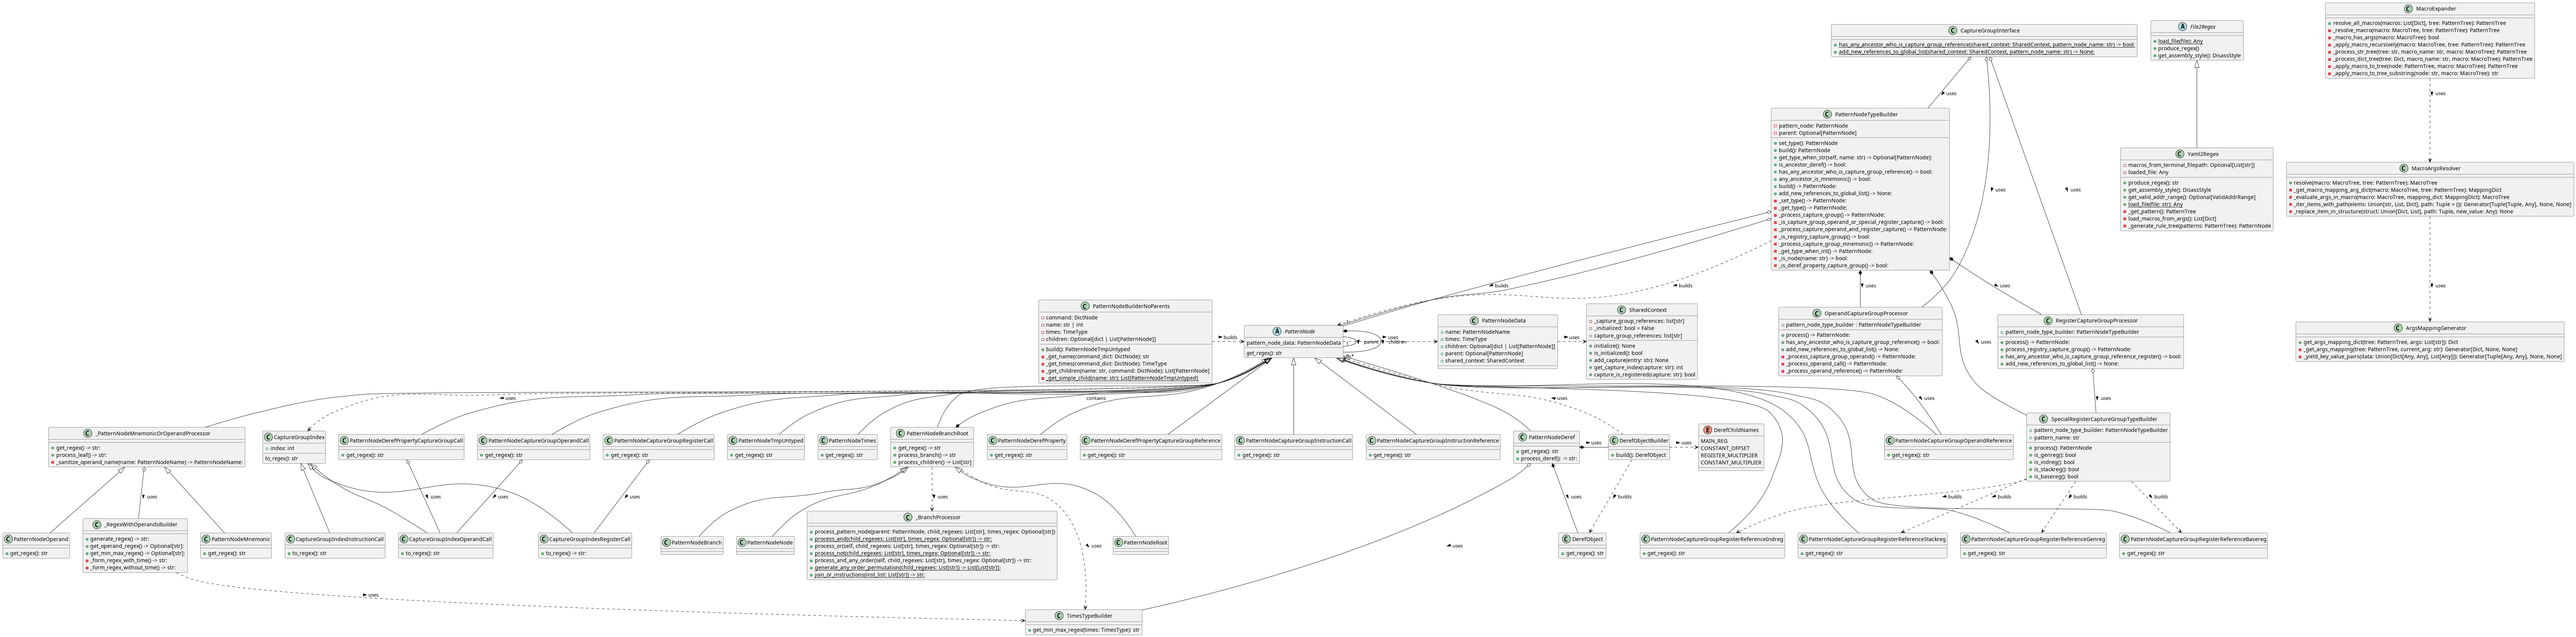
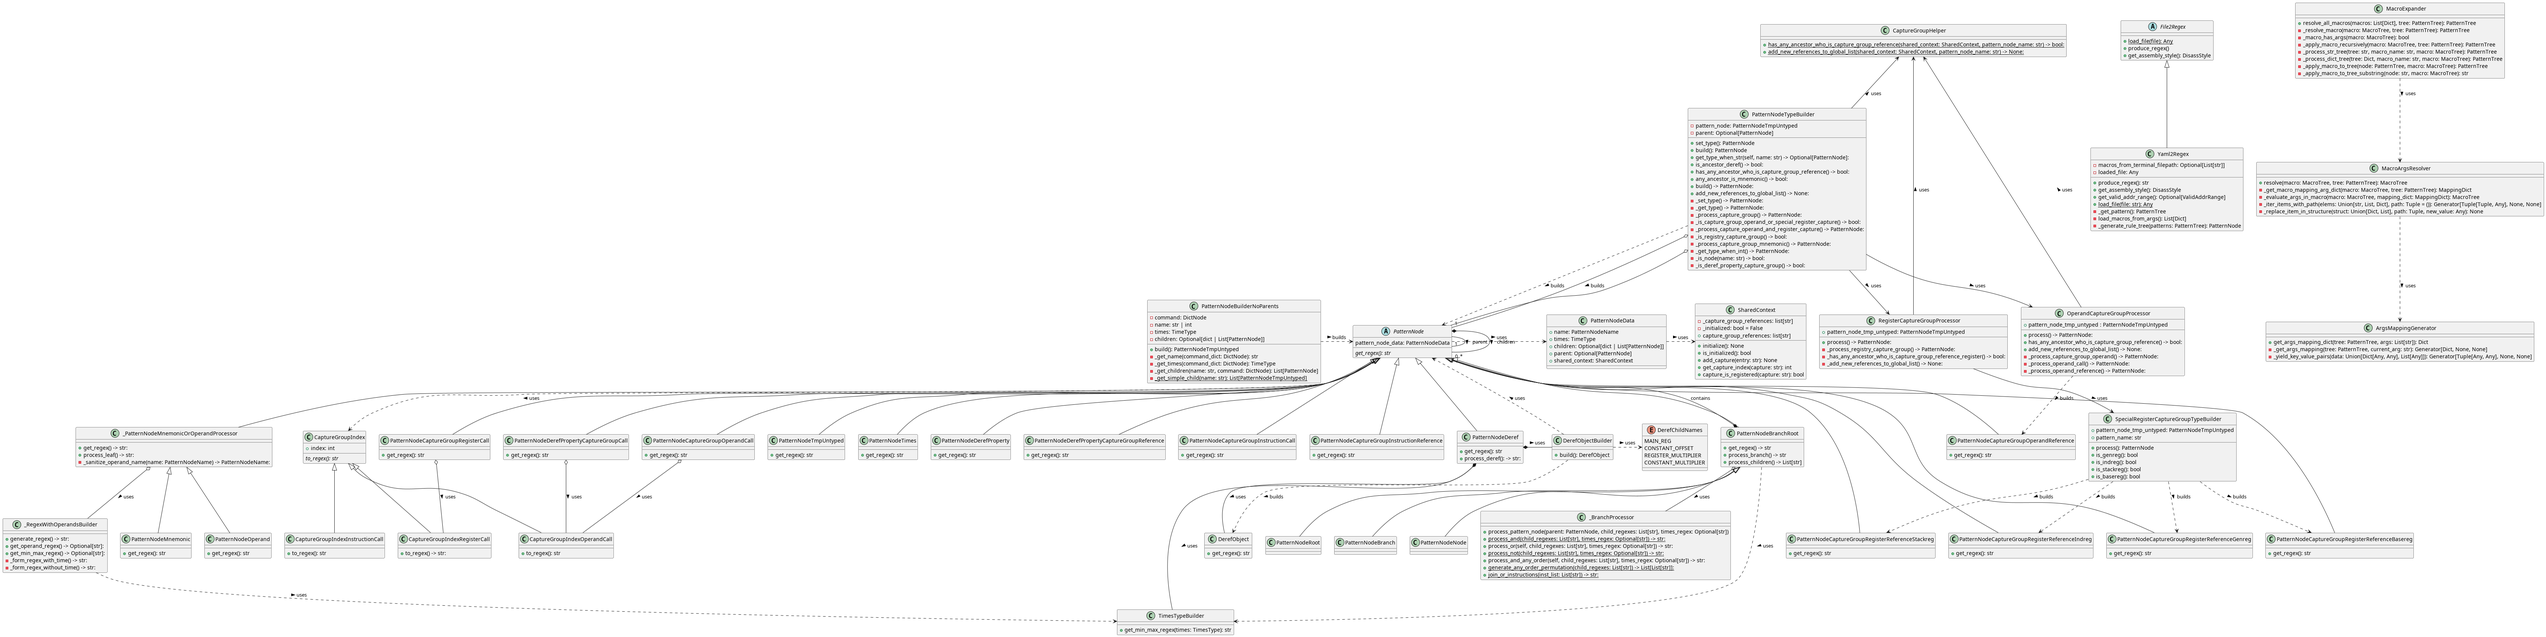
Improve design, improve get_regex and change instances of pattern_node_type_builder

diff --git a/src/jasm/regex/tree_generators/pattern_node_type_builder/register_capture_group_processor.py b/src/jasm/regex/tree_generators/pattern_node_type_builder/register_capture_group_processor.py
@@ -1,57 +1,50 @@
-from typing import TYPE_CHECKING
-
 from jasm.global_definitions import remove_access_suffix
 from jasm.regex.tree_generators.pattern_node_abstract import PatternNode
 from jasm.regex.tree_generators.pattern_node_implementations.capture_group.capture_group_register import (
     PatternNodeCaptureGroupRegisterCall,
 )
-from jasm.regex.tree_generators.pattern_node_type_builder.capture_group_interface import CaptureGroupInterface
+from jasm.regex.tree_generators.pattern_node_tmp_untyped import PatternNodeTmpUntyped
+from jasm.regex.tree_generators.pattern_node_type_builder.capture_group_interface import CaptureGroupHelper
 from jasm.regex.tree_generators.pattern_node_type_builder.special_register_capture_group_type_decider import (
     SpecialRegisterCaptureGroupTypeBuilder,
 )
 
-# Used this to import PatternNodeTypeBuilder type hint avoiding circular import
-if TYPE_CHECKING:
-    from jasm.regex.tree_generators.pattern_node_type_builder.pattern_node_type_builder import PatternNodeTypeBuilder
-
 
 class RegisterCaptureGroupProcessor:
 
-    def __init__(self, pattern_node_type_builder: "PatternNodeTypeBuilder") -> None:
-        self.pattern_node_type_builder = pattern_node_type_builder
+    def __init__(self, pattern_node_tmp_untyped: PatternNodeTmpUntyped) -> None:
+        self.pattern_node_tmp_untyped = pattern_node_tmp_untyped
 
     def process(self) -> PatternNode:
         return self.process_registry_capture_group()
 
     def process_registry_capture_group(self) -> PatternNode:
         if self.has_any_ancestor_who_is_capture_group_reference_register():
-            return PatternNodeCaptureGroupRegisterCall(self.pattern_node_type_builder.pattern_node)
+            return PatternNodeCaptureGroupRegisterCall(self.pattern_node_tmp_untyped)
 
         self.add_new_references_to_global_list()
 
         # Decide which type of register capture group it is
-        return SpecialRegisterCaptureGroupTypeBuilder(pattern_node=self.pattern_node_type_builder).process()
+        return SpecialRegisterCaptureGroupTypeBuilder(pattern_node_untyped=self.pattern_node_tmp_untyped).process()
 
     def has_any_ancestor_who_is_capture_group_reference_register(self) -> bool:
         "Check if any ancestor is a capture group reference"
 
-        assert isinstance(self.pattern_node_type_builder.pattern_node.name, str)
-        main_reference_name = remove_access_suffix(pattern_name=self.pattern_node_type_builder.pattern_node.name)
+        assert isinstance(self.pattern_node_tmp_untyped.name, str)
+        main_reference_name = remove_access_suffix(pattern_name=self.pattern_node_tmp_untyped.name)
 
-        return CaptureGroupInterface().has_any_ancestor_who_is_capture_group_reference(
-            shared_context=self.pattern_node_type_builder.pattern_node.shared_context,
+        return CaptureGroupHelper().has_any_ancestor_who_is_capture_group_reference(
+            shared_context=self.pattern_node_tmp_untyped.shared_context,
             pattern_node_name=main_reference_name,
         )
 
     def add_new_references_to_global_list(self) -> None:
         "Add new references to global list"
 
-        assert isinstance(self.pattern_node_type_builder.pattern_node.name, str)
-        pattern_node_name_without_suffix = remove_access_suffix(
-            pattern_name=self.pattern_node_type_builder.pattern_node.name
-        )
+        assert isinstance(self.pattern_node_tmp_untyped.name, str)
+        pattern_node_name_without_suffix = remove_access_suffix(pattern_name=self.pattern_node_tmp_untyped.name)
 
-        CaptureGroupInterface().add_new_references_to_global_list(
-            shared_context=self.pattern_node_type_builder.pattern_node.shared_context,
+        CaptureGroupHelper().add_new_references_to_global_list(
+            shared_context=self.pattern_node_tmp_untyped.shared_context,
             pattern_node_name=pattern_node_name_without_suffix,
         )

diff --git a/src/jasm/regex/tree_generators/pattern_node_type_builder/pattern_node_type_builder.py b/src/jasm/regex/tree_generators/pattern_node_type_builder/pattern_node_type_builder.py
@@ -1,5 +1,6 @@
 from typing import Optional
 
+from jasm.global_definitions import PatternNodeName
 from jasm.regex.tree_generators.pattern_node_abstract import PatternNode
 from jasm.regex.tree_generators.pattern_node_implementations.capture_group.capture_group_instruction import (
     PatternNodeCaptureGroupInstructionCall,
@@ -21,7 +22,7 @@ from jasm.regex.tree_generators.pattern_node_implementations.node_branch_root im
     PatternNodeTimes,
 )
 from jasm.regex.tree_generators.pattern_node_tmp_untyped import PatternNodeTmpUntyped
-from jasm.regex.tree_generators.pattern_node_type_builder.capture_group_interface import CaptureGroupInterface
+from jasm.regex.tree_generators.pattern_node_type_builder.capture_group_interface import CaptureGroupHelper
 from jasm.regex.tree_generators.pattern_node_type_builder.operand_capture_group_processor import (
     OperandCaptureGroupProcessor,
 )
@@ -30,7 +31,7 @@ from jasm.regex.tree_generators.pattern_node_type_builder.register_capture_group
 )
 
 
-class PatternNodeTypeBuilder:
+class PatternNodeTmpUntyped:
     def __init__(self, pattern_node: PatternNodeTmpUntyped, parent: Optional[PatternNode]) -> None:
 
         # Here we are just checking that the node is a PatternNode because it is useful for testing purposes to inject a
@@ -83,7 +84,7 @@ class PatternNodeTypeBuilder:
             if self._is_deref_property_capture_group():
 
                 if self._is_registry_capture_group():
-                    return RegisterCaptureGroupProcessor(self).process()
+                    return RegisterCaptureGroupProcessor(self.pattern_node).process()
 
                 if self.has_any_ancestor_who_is_capture_group_reference():
                     return PatternNodeDerefPropertyCaptureGroupCall(self.pattern_node)
@@ -126,10 +127,10 @@ class PatternNodeTypeBuilder:
     def _process_capture_operand_and_register_capture(self) -> PatternNode:
         if self._is_registry_capture_group():
             # Register capture group
-            return RegisterCaptureGroupProcessor(self).process()
+            return RegisterCaptureGroupProcessor(self.pattern_node).process()
 
         # Operand capture group
-        return OperandCaptureGroupProcessor(self).process()
+        return OperandCaptureGroupProcessor(self.pattern_node).process()
 
     def _is_registry_capture_group(self) -> bool:
         "Check if the current node is a registry capture group"
@@ -193,7 +194,7 @@ class PatternNodeTypeBuilder:
         "Check if any ancestor is a capture group reference"
 
         assert isinstance(self.pattern_node.name, str)
-        return CaptureGroupInterface().has_any_ancestor_who_is_capture_group_reference(
+        return CaptureGroupHelper().has_any_ancestor_who_is_capture_group_reference(
             shared_context=self.pattern_node.shared_context, pattern_node_name=self.pattern_node.name
         )
 
@@ -201,7 +202,7 @@ class PatternNodeTypeBuilder:
         "Add new references to global list"
 
         assert isinstance(self.pattern_node.name, str)
-        CaptureGroupInterface().add_new_references_to_global_list(
+        CaptureGroupHelper().add_new_references_to_global_list(
             shared_context=self.pattern_node.shared_context, pattern_node_name=self.pattern_node.name
         )
 
@@ -221,7 +222,7 @@ class PatternNodeTypeBuilder:
 
         if new_concrete_instance.children:
             new_concrete_instance.children = [
-                PatternNodeTypeBuilder(child, parent=new_concrete_instance).build()
+                PatternNodeTmpUntyped(child, parent=new_concrete_instance).build()
                 for child in new_concrete_instance.children
             ]
 

diff --git a/src/jasm/regex/tree_generators/pattern_node_type_builder/operand_capture_group_processor.py b/src/jasm/regex/tree_generators/pattern_node_type_builder/operand_capture_group_processor.py
@@ -5,17 +5,14 @@ from jasm.regex.tree_generators.pattern_node_implementations.capture_group.captu
     PatternNodeCaptureGroupOperandCall,
     PatternNodeCaptureGroupOperandReference,
 )
-from jasm.regex.tree_generators.pattern_node_type_builder.capture_group_interface import CaptureGroupInterface
-
-# Used this to import PatternNodeTypeBuilder type hint avoiding circular import
-if TYPE_CHECKING:
-    from jasm.regex.tree_generators.pattern_node_type_builder.pattern_node_type_builder import PatternNodeTypeBuilder
+from jasm.regex.tree_generators.pattern_node_tmp_untyped import PatternNodeTmpUntyped
+from jasm.regex.tree_generators.pattern_node_type_builder.capture_group_interface import CaptureGroupHelper
 
 
 class OperandCaptureGroupProcessor:
 
-    def __init__(self, pattern_node_type_builder: "PatternNodeTypeBuilder") -> None:
-        self.pattern_node = pattern_node_type_builder
+    def __init__(self, pattern_node_tmp_untyped: PatternNodeTmpUntyped) -> None:
+        self.pattern_node = pattern_node_tmp_untyped
 
     def process(self) -> PatternNode:
         return self._process_capture_group_operand()
@@ -30,26 +27,26 @@ class OperandCaptureGroupProcessor:
     def has_any_ancestor_who_is_capture_group_reference(self) -> bool:
         "Check if any ancestor is a capture group reference"
 
-        assert isinstance(self.pattern_node.pattern_node.name, str)
-        return CaptureGroupInterface().has_any_ancestor_who_is_capture_group_reference(
-            shared_context=self.pattern_node.pattern_node.shared_context,
-            pattern_node_name=self.pattern_node.pattern_node.name,
+        assert isinstance(self.pattern_node.name, str)
+        return CaptureGroupHelper().has_any_ancestor_who_is_capture_group_reference(
+            shared_context=self.pattern_node.shared_context,
+            pattern_node_name=self.pattern_node.name,
         )
 
     def _process_operand_call(self) -> PatternNode:
-        return PatternNodeCaptureGroupOperandCall(self.pattern_node.pattern_node)
+        return PatternNodeCaptureGroupOperandCall(self.pattern_node)
 
     def _process_operand_reference(self) -> PatternNode:
         # Return reference
         # Add reference to the list of references
         self.add_new_references_to_global_list()
-        return PatternNodeCaptureGroupOperandReference(self.pattern_node.pattern_node)
+        return PatternNodeCaptureGroupOperandReference(self.pattern_node)
 
     def add_new_references_to_global_list(self) -> None:
         """Add new references to global list"""
 
-        assert isinstance(self.pattern_node.pattern_node.name, str)
-        CaptureGroupInterface().add_new_references_to_global_list(
-            shared_context=self.pattern_node.pattern_node.shared_context,
-            pattern_node_name=self.pattern_node.pattern_node.name,
+        assert isinstance(self.pattern_node.name, str)
+        CaptureGroupHelper().add_new_references_to_global_list(
+            shared_context=self.pattern_node.shared_context,
+            pattern_node_name=self.pattern_node.name,
         )

diff --git a/tests/unit_tests/jasm/regex/tree_generators/test_pattern_node_type_builder.py b/tests/unit_tests/jasm/regex/tree_generators/test_pattern_node_type_builder.py
@@ -10,7 +10,7 @@ from jasm.regex.tree_generators.pattern_node_implementations.mnemonic_and_operan
 )
 from jasm.regex.tree_generators.pattern_node_implementations.node_branch_root import PatternNodeNode, PatternNodeTimes
 from jasm.regex.tree_generators.pattern_node_tmp_untyped import PatternNodeTmpUntyped
-from jasm.regex.tree_generators.pattern_node_type_builder.pattern_node_type_builder import PatternNodeTypeBuilder
+from jasm.regex.tree_generators.pattern_node_type_builder.pattern_node_type_builder import PatternNodeTmpUntyped
 from jasm.regex.tree_generators.shared_context import SharedContext
 
 
@@ -61,7 +61,7 @@ def test_get_type(name, expected_type):
     root_node.children = [node]
 
     # Add the command_type to each node
-    root_node = PatternNodeTypeBuilder(root_node, parent=None).build()
+    root_node = PatternNodeTmpUntyped(root_node, parent=None).build()
 
     assert isinstance(root_node.children[0], expected_type)
 
@@ -75,7 +75,7 @@ def test_is_ancestor_deref() -> None:
     parent = pattern_node_base_creator(name="$deref", parent=root_node, children=[child])
 
     root_node.children = [parent]
-    root_node = PatternNodeTypeBuilder(root_node, parent=None).build()
+    root_node = PatternNodeTmpUntyped(root_node, parent=None).build()
 
     parent = root_node.children[0]
     child = parent.children[0]
@@ -87,7 +87,7 @@ def test_is_ancestor_deref() -> None:
 
     child2 = pattern_node_base_creator(name="child2", parent=parent)
 
-    child2_builder = PatternNodeTypeBuilder(child2, parent=parent)
+    child2_builder = PatternNodeTmpUntyped(child2, parent=parent)
     child2 = child2_builder.build()
 
     assert child2_builder.is_ancestor_deref()
@@ -99,13 +99,13 @@ def test_any_ancestor_is_mnemonic(mock_shared_context):
     grandparent = pattern_node_base_creator(name="mnemonic", children=[parent])
     root = pattern_node_base_creator(name="$and", children=[grandparent])
 
-    pattern_node_tree_builder = PatternNodeTypeBuilder(root, parent=None)
+    pattern_node_tree_builder = PatternNodeTmpUntyped(root, parent=None)
     root = pattern_node_tree_builder.build()
     grandparent = root.children[0]
     parent = grandparent.children[0]
     child = parent.children[0]
 
-    child_pattern_type = PatternNodeTypeBuilder(child, parent=parent)
+    child_pattern_type = PatternNodeTmpUntyped(child, parent=parent)
 
     assert child_pattern_type.any_ancestor_is_mnemonic()
 
@@ -116,7 +116,7 @@ def test_recursive_build():
     grandparent = pattern_node_base_creator(name="mnemonic", children=[parent])
     root = pattern_node_base_creator(name="$and", children=[grandparent])
 
-    root = PatternNodeTypeBuilder(root, parent=None).build()
+    root = PatternNodeTmpUntyped(root, parent=None).build()
     grandparent = root.children[0]
     parent = grandparent.children[0]
     child = parent.children[0]

diff --git a/src/jasm/regex/tree_generators/pattern_node_type_builder/special_register_capture_group_type_decider.py b/src/jasm/regex/tree_generators/pattern_node_type_builder/special_register_capture_group_type_decider.py
@@ -1,5 +1,3 @@
-from typing import TYPE_CHECKING
-
 from jasm.regex.tree_generators.pattern_node_abstract import PatternNode
 from jasm.regex.tree_generators.pattern_node_implementations.capture_group.capture_group_register import (
     PatternNodeCaptureGroupRegisterReferenceBasereg,
@@ -7,29 +5,26 @@ from jasm.regex.tree_generators.pattern_node_implementations.capture_group.captu
     PatternNodeCaptureGroupRegisterReferenceIndreg,
     PatternNodeCaptureGroupRegisterReferenceStackreg,
 )
-
-# Used this to import PatternNodeTypeBuilder type hint avoiding circular import
-if TYPE_CHECKING:
-    from jasm.regex.tree_generators.pattern_node_type_builder.pattern_node_type_builder import PatternNodeTypeBuilder
+from jasm.regex.tree_generators.pattern_node_tmp_untyped import PatternNodeTmpUntyped
 
 
 class SpecialRegisterCaptureGroupTypeBuilder:
 
-    def __init__(self, pattern_node: "PatternNodeTypeBuilder") -> None:
-        self.pattern_node_type_builder: PatternNodeTypeBuilder = pattern_node
+    def __init__(self, pattern_node_untyped: PatternNodeTmpUntyped) -> None:
+        self.pattern_node_untyped: PatternNodeTmpUntyped = pattern_node_untyped
 
-        assert isinstance(pattern_node.pattern_node.name, str)
-        self.pattern_name: str = pattern_node.pattern_node.name
+        assert isinstance(pattern_node_untyped.name, str)
+        self.pattern_name: str = pattern_node_untyped.name
 
     def process(self) -> PatternNode:
         if self.is_genreg():
-            return PatternNodeCaptureGroupRegisterReferenceGenreg(self.pattern_node_type_builder.pattern_node)
+            return PatternNodeCaptureGroupRegisterReferenceGenreg(self.pattern_node_untyped)
         if self.is_indreg():
-            return PatternNodeCaptureGroupRegisterReferenceIndreg(self.pattern_node_type_builder.pattern_node)
+            return PatternNodeCaptureGroupRegisterReferenceIndreg(self.pattern_node_untyped)
         if self.is_stackreg():
-            return PatternNodeCaptureGroupRegisterReferenceStackreg(self.pattern_node_type_builder.pattern_node)
+            return PatternNodeCaptureGroupRegisterReferenceStackreg(self.pattern_node_untyped)
         if self.is_basereg():
-            return PatternNodeCaptureGroupRegisterReferenceBasereg(self.pattern_node_type_builder.pattern_node)
+            return PatternNodeCaptureGroupRegisterReferenceBasereg(self.pattern_node_untyped)
 
         raise ValueError("Register type not found")
 

diff --git a/src/jasm/regex/tree_generators/pattern_node_implementations/capture_group/capture_group_register.py b/src/jasm/regex/tree_generators/pattern_node_implementations/capture_group/capture_group_register.py
@@ -6,9 +6,6 @@ from jasm.regex.tree_generators.pattern_node_abstract import PatternNode
 class PatternNodeCaptureGroupRegisterReferenceGenreg(PatternNode):
 
     def get_regex(self) -> str:
-        return self.get_capture_group_reference_register_genreg()
-
-    def get_capture_group_reference_register_genreg(self) -> str:
         # The comma is optional just for when this is under a deref
         # On deref the comma should not be present
         # TODO: find a way to implement this cleaner
@@ -20,9 +17,6 @@ class PatternNodeCaptureGroupRegisterReferenceGenreg(PatternNode):
 class PatternNodeCaptureGroupRegisterReferenceIndreg(PatternNode):
 
     def get_regex(self) -> str:
-        return self.get_capture_group_reference_register_indreg()
-
-    def get_capture_group_reference_register_indreg(self) -> str:
         # The comma is optional just for when this is under a deref
         # On deref the comma should not be present
         # TODO: find a way to implement this cleaner
@@ -34,9 +28,6 @@ class PatternNodeCaptureGroupRegisterReferenceIndreg(PatternNode):
 class PatternNodeCaptureGroupRegisterReferenceStackreg(PatternNode):
 
     def get_regex(self) -> str:
-        return self.get_capture_group_reference_register_stackreg()
-
-    def get_capture_group_reference_register_stackreg(self) -> str:
         # The comma is optional just for when this is under a deref
         # On deref the comma should not be present
         # TODO: find a way to implement this cleaner
@@ -48,9 +39,6 @@ class PatternNodeCaptureGroupRegisterReferenceStackreg(PatternNode):
 class PatternNodeCaptureGroupRegisterReferenceBasereg(PatternNode):
 
     def get_regex(self) -> str:
-        return self.get_capture_group_reference_register_basereg()
-
-    def get_capture_group_reference_register_basereg(self) -> str:
         # The comma is optional just for when this is under a deref
         # On deref the comma should not be present
         # TODO: find a way to implement this cleaner

diff --git a/src/jasm/regex/yaml2regex.py b/src/jasm/regex/yaml2regex.py
@@ -11,7 +11,7 @@ from jasm.regex.file2regex import File2Regex
 from jasm.regex.macro_expander.macro_expander import MacroExpander, PatternTree
 from jasm.regex.tree_generators.pattern_node_abstract import PatternNode, PatternNode
 from jasm.regex.tree_generators.pattern_node_builder import PatternNodeBuilderNoParents
-from jasm.regex.tree_generators.pattern_node_type_builder.pattern_node_type_builder import PatternNodeTypeBuilder
+from jasm.regex.tree_generators.pattern_node_type_builder.pattern_node_type_builder import PatternNodeTmpUntyped
 
 
 class Yaml2Regex(File2Regex):
@@ -91,7 +91,7 @@ class Yaml2Regex(File2Regex):
         ).build()
 
         # Transform each node in the rule tree to a typed node
-        rule_tree_typed: PatternNode = PatternNodeTypeBuilder(rule_tree, parent=None).build()
+        rule_tree_typed: PatternNode = PatternNodeTmpUntyped(rule_tree, parent=None).build()
 
         return rule_tree_typed
 

diff --git a/src/jasm/regex/tree_generators/pattern_node_type_builder/capture_group_interface.py b/src/jasm/regex/tree_generators/pattern_node_type_builder/capture_group_interface.py
@@ -1,7 +1,7 @@
 from jasm.regex.tree_generators.shared_context import SharedContext
 
 
-class CaptureGroupInterface:
+class CaptureGroupHelper:
     @staticmethod
     def has_any_ancestor_who_is_capture_group_reference(shared_context: SharedContext, pattern_node_name: str) -> bool:
         "Check if any ancestor is a capture group reference"
